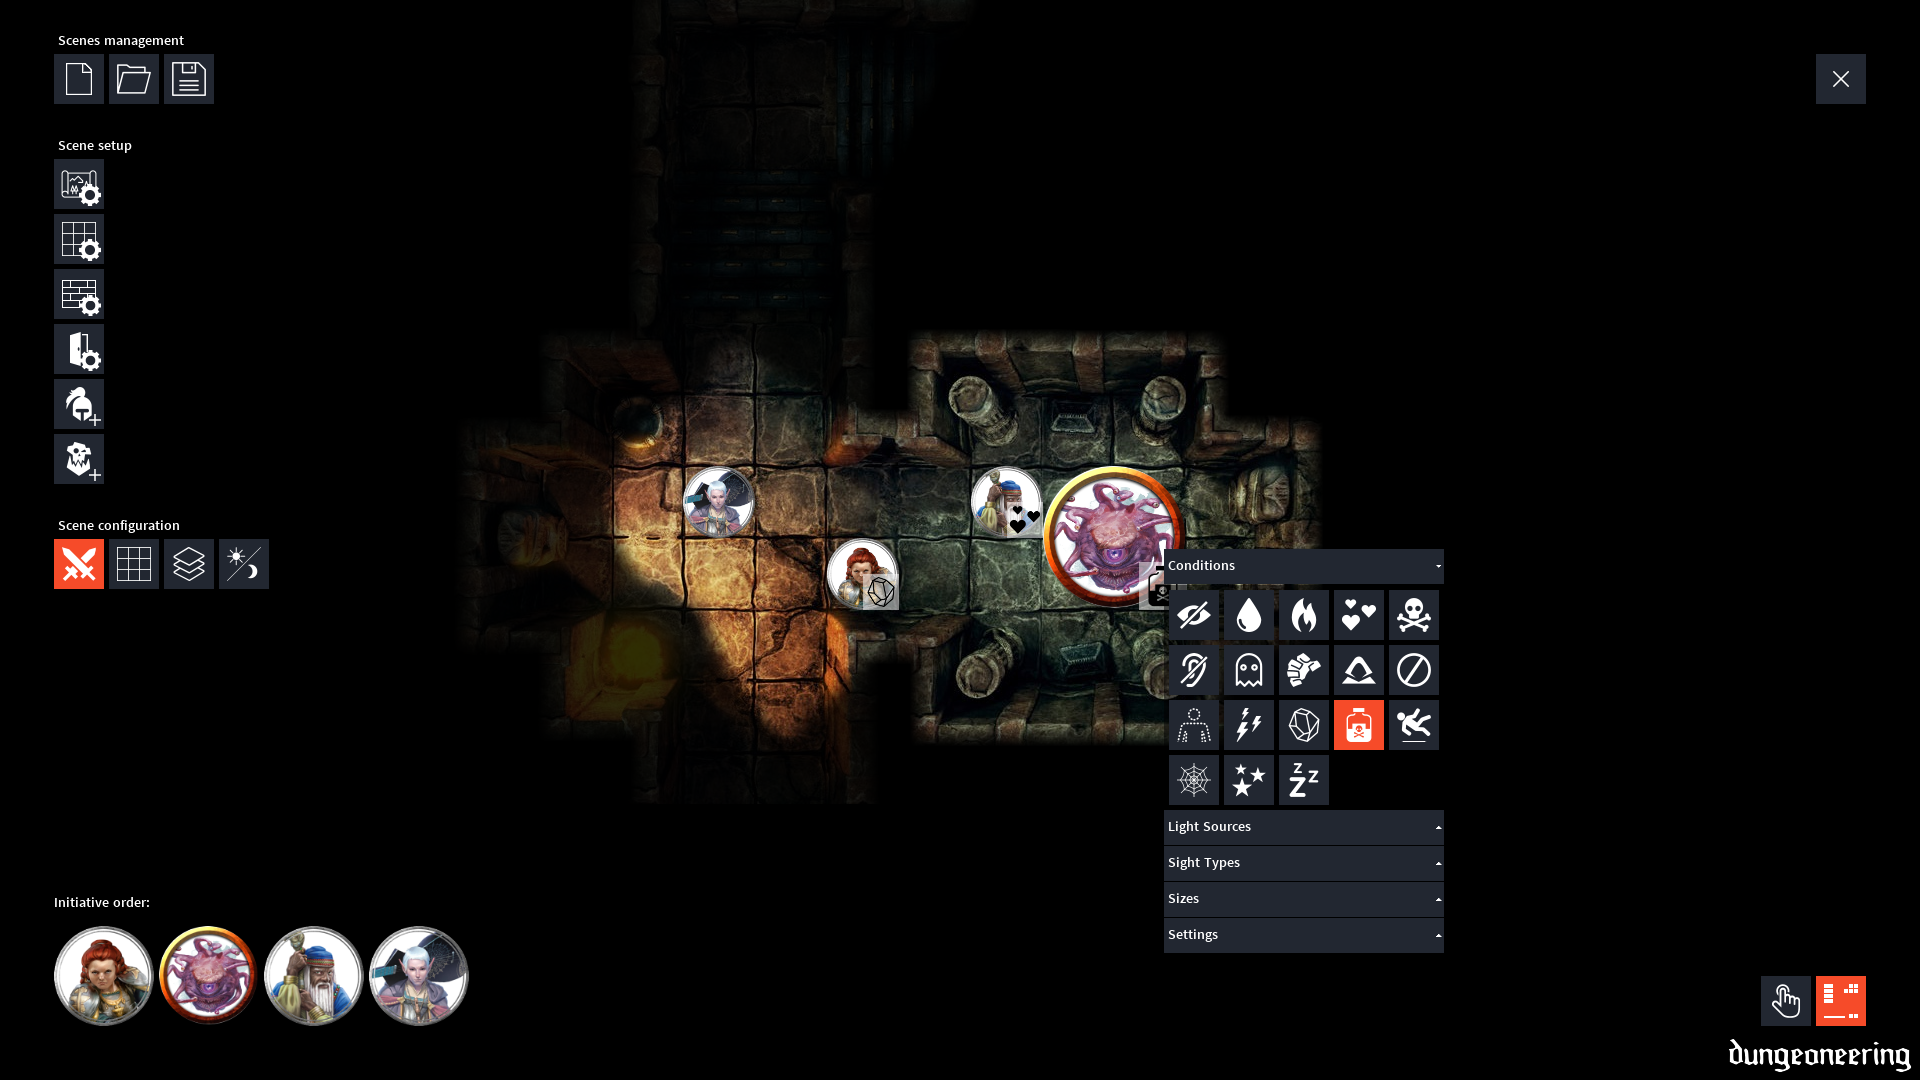
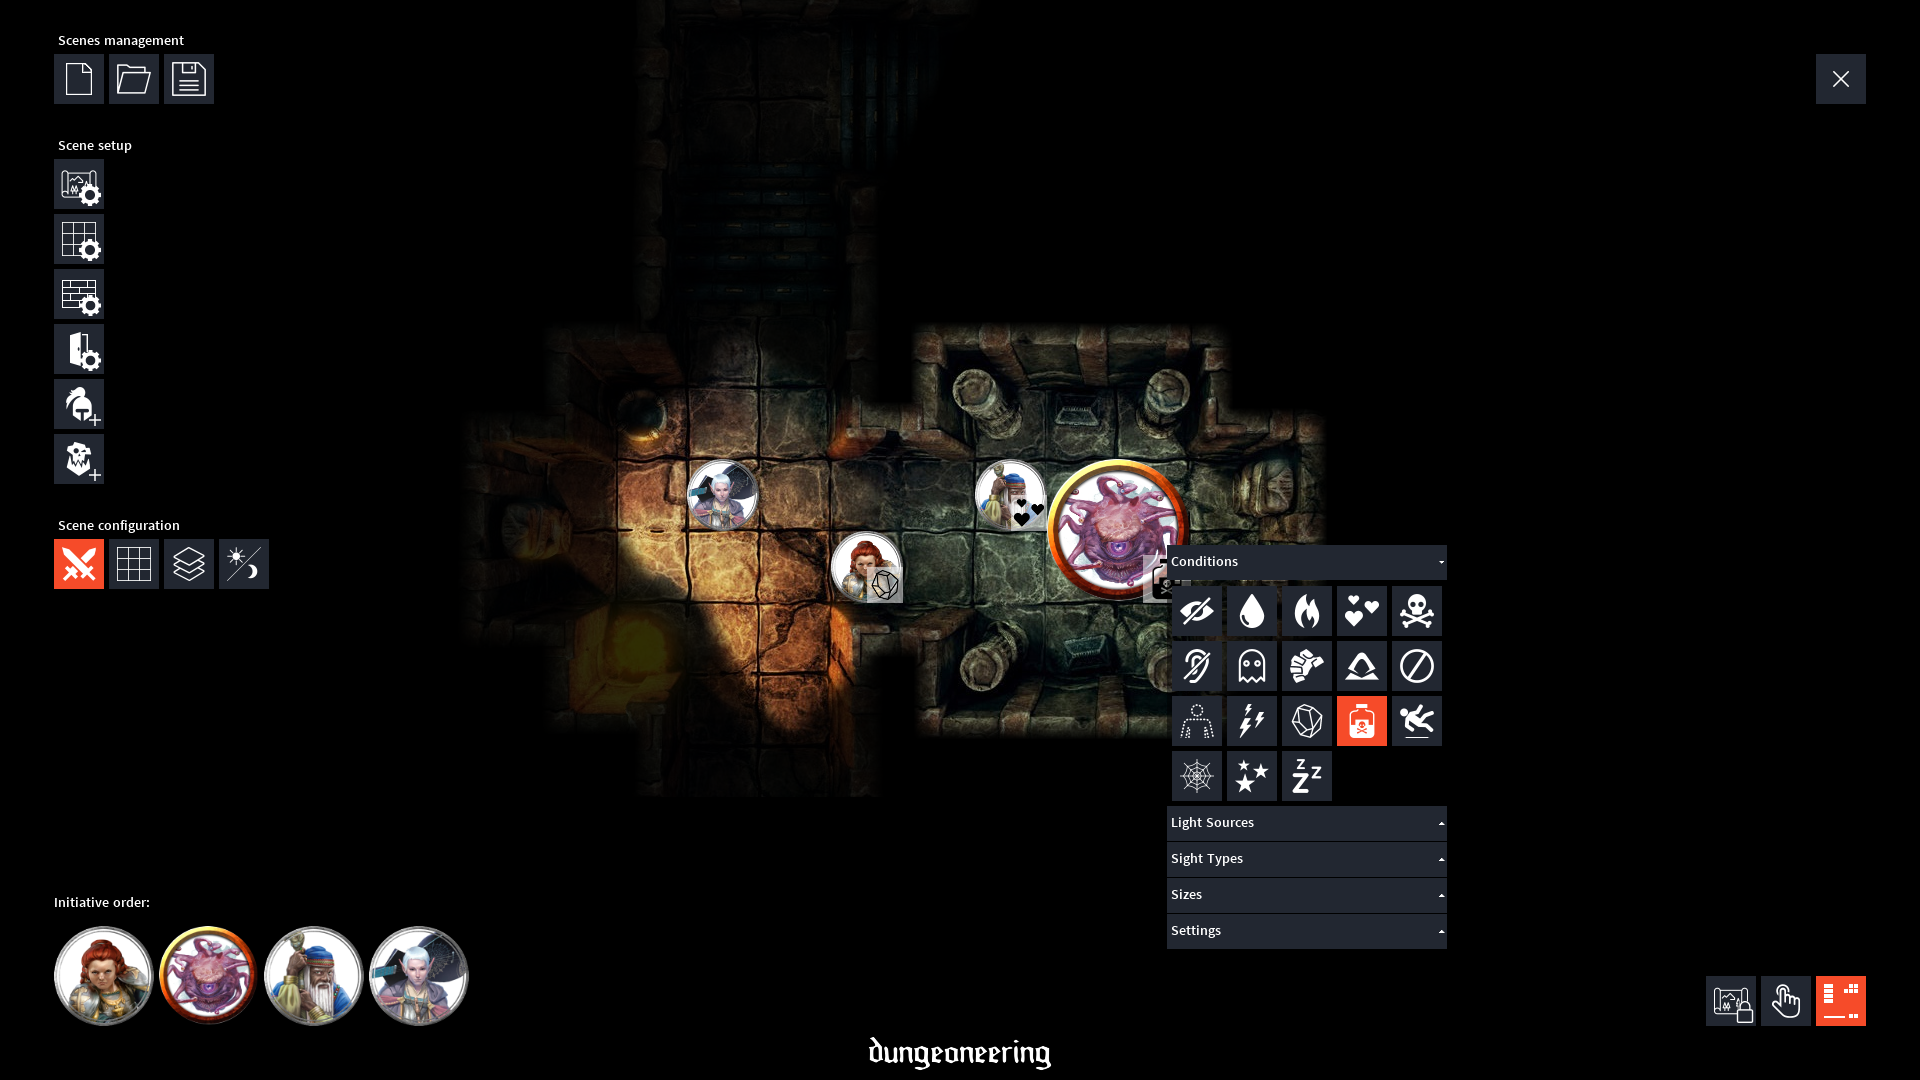
Release v1.3.1

Changed region(s): [[0.3125, 0.3056, 0.75, 0.8861], [0.875, 0.8861, 1.0, 1.0], [0.4375, 0.9472, 0.5625, 1.0]]

diff --git a/docs/index.md b/docs/index.md
@@ -111,9 +111,11 @@ The icons used in the application were either released under a public-domain-lik
 
 There are a few demo scenes bundled with the application. The assets used in these scenes can be found at or created using the following links.
 
-- The two awesome animated maps are from [Animated Dungeon Maps](https://www.patreon.com/animatedmaps "Animated Dungeon Maps Patreon page"){:target="_blank"}.
+- The Sword Coast and Siege of Bamburgh animated maps are from [Animated Dungeon Maps](https://www.patreon.com/animatedmaps "Animated Dungeon Maps Patreon page"){:target="_blank"}.
+- The Yawning Portal animated map was created by [3DMAcademy](https://www.reddit.com/user/3DMAcademy/ "3DMAcademy Reddit user page"){:target="_blank"}.
 - The <a class="lightbox-link cabin" title="Abandoned Cabin map by Mike Schley">Abandoned Cabin map</a> is from Mike Schley, available in this [D&D article](https://dnd.wizards.com/articles/features/schley-stack "D&D Schley Stack article"){:target="_blank"}, © Wizards of the Coast.
 - The <a class="lightbox-link illusionist" title="Dungeons of the Grand Illusionist map by Dyson Logos">Dungeons of the Grand Illusionist map</a> is from [Dyson Logos](https://www.patreon.com/dysonlogos "Dyson Logos Patreon page"){:target="_blank"}.
+- The <a class="lightbox-link library" title="The Lost Library map by Paths Peculiar">Lost Library map</a> is from [Paths Peculiar](https://www.wistedt.net/ "Paths Peculiar website"){:target="_blank"}.
 - All tokens were created using the [Token Stamp tool](https://rolladvantage.com/tokenstamp/ "Token Stamp tool"){:target="_blank"} with D&D 5th edition images, © Wizards of the Coast.
 
 

diff --git a/docs/CHANGELOG.md b/docs/CHANGELOG.md
@@ -5,6 +5,25 @@ All notable changes to this project will be documented in this file.
 The format is based on [Keep a Changelog][1], and this project adheres to
 [Semantic Versioning][2].
 
+## [1.3.1] - 2021-09-26
+
+### Added
+
+- Added new demo scene - The Yawning Portal
+- Added new demo scene - The Lost Library
+- Added button to lock map pan and zoom
+- Added dungeoneering logo to center bottom of the screen
+
+### Fixed
+
+- Fixed grid toggle not working during scene setup
+- Fixed map logo being saved to scene JSON with it's full path
+
+### Changed
+
+- Updated application icons
+- Updated demo scene tokens
+
 ## [1.3.0] - 2021-09-09
 
 ### Added
@@ -124,7 +143,8 @@ same resolution where they were created
 - Visual initiative order widget to help in combats
 - An [exclusive video map][3] from [Animated Dungeon Maps][4]
 
-[unreleased]: https://github.com/luiscastilho/dungeoneering/compare/v1.3.0...HEAD
+[unreleased]: https://github.com/luiscastilho/dungeoneering/compare/v1.3.1...HEAD
+[1.3.1]: https://github.com/luiscastilho/dungeoneering/compare/v1.3.0...v1.3.1
 [1.3.0]: https://github.com/luiscastilho/dungeoneering/compare/v1.2.1...v1.3.0
 [1.2.1]: https://github.com/luiscastilho/dungeoneering/compare/v1.2.0...v1.2.1
 [1.2.0]: https://github.com/luiscastilho/dungeoneering/compare/v1.1.3...v1.2.0
@@ -141,3 +161,5 @@ same resolution where they were created
 [3]: https://github.com/luiscastilho/dungeoneering/blob/main/dungeoneering/data/maps/Animated-SwordCoast.mp4
 [4]: https://www.patreon.com/animatedmaps
 [5]: https://www.patreon.com/dysonlogos
+[6]: https://www.reddit.com/user/3DMAcademy/
+[7]: https://www.wistedt.net/
